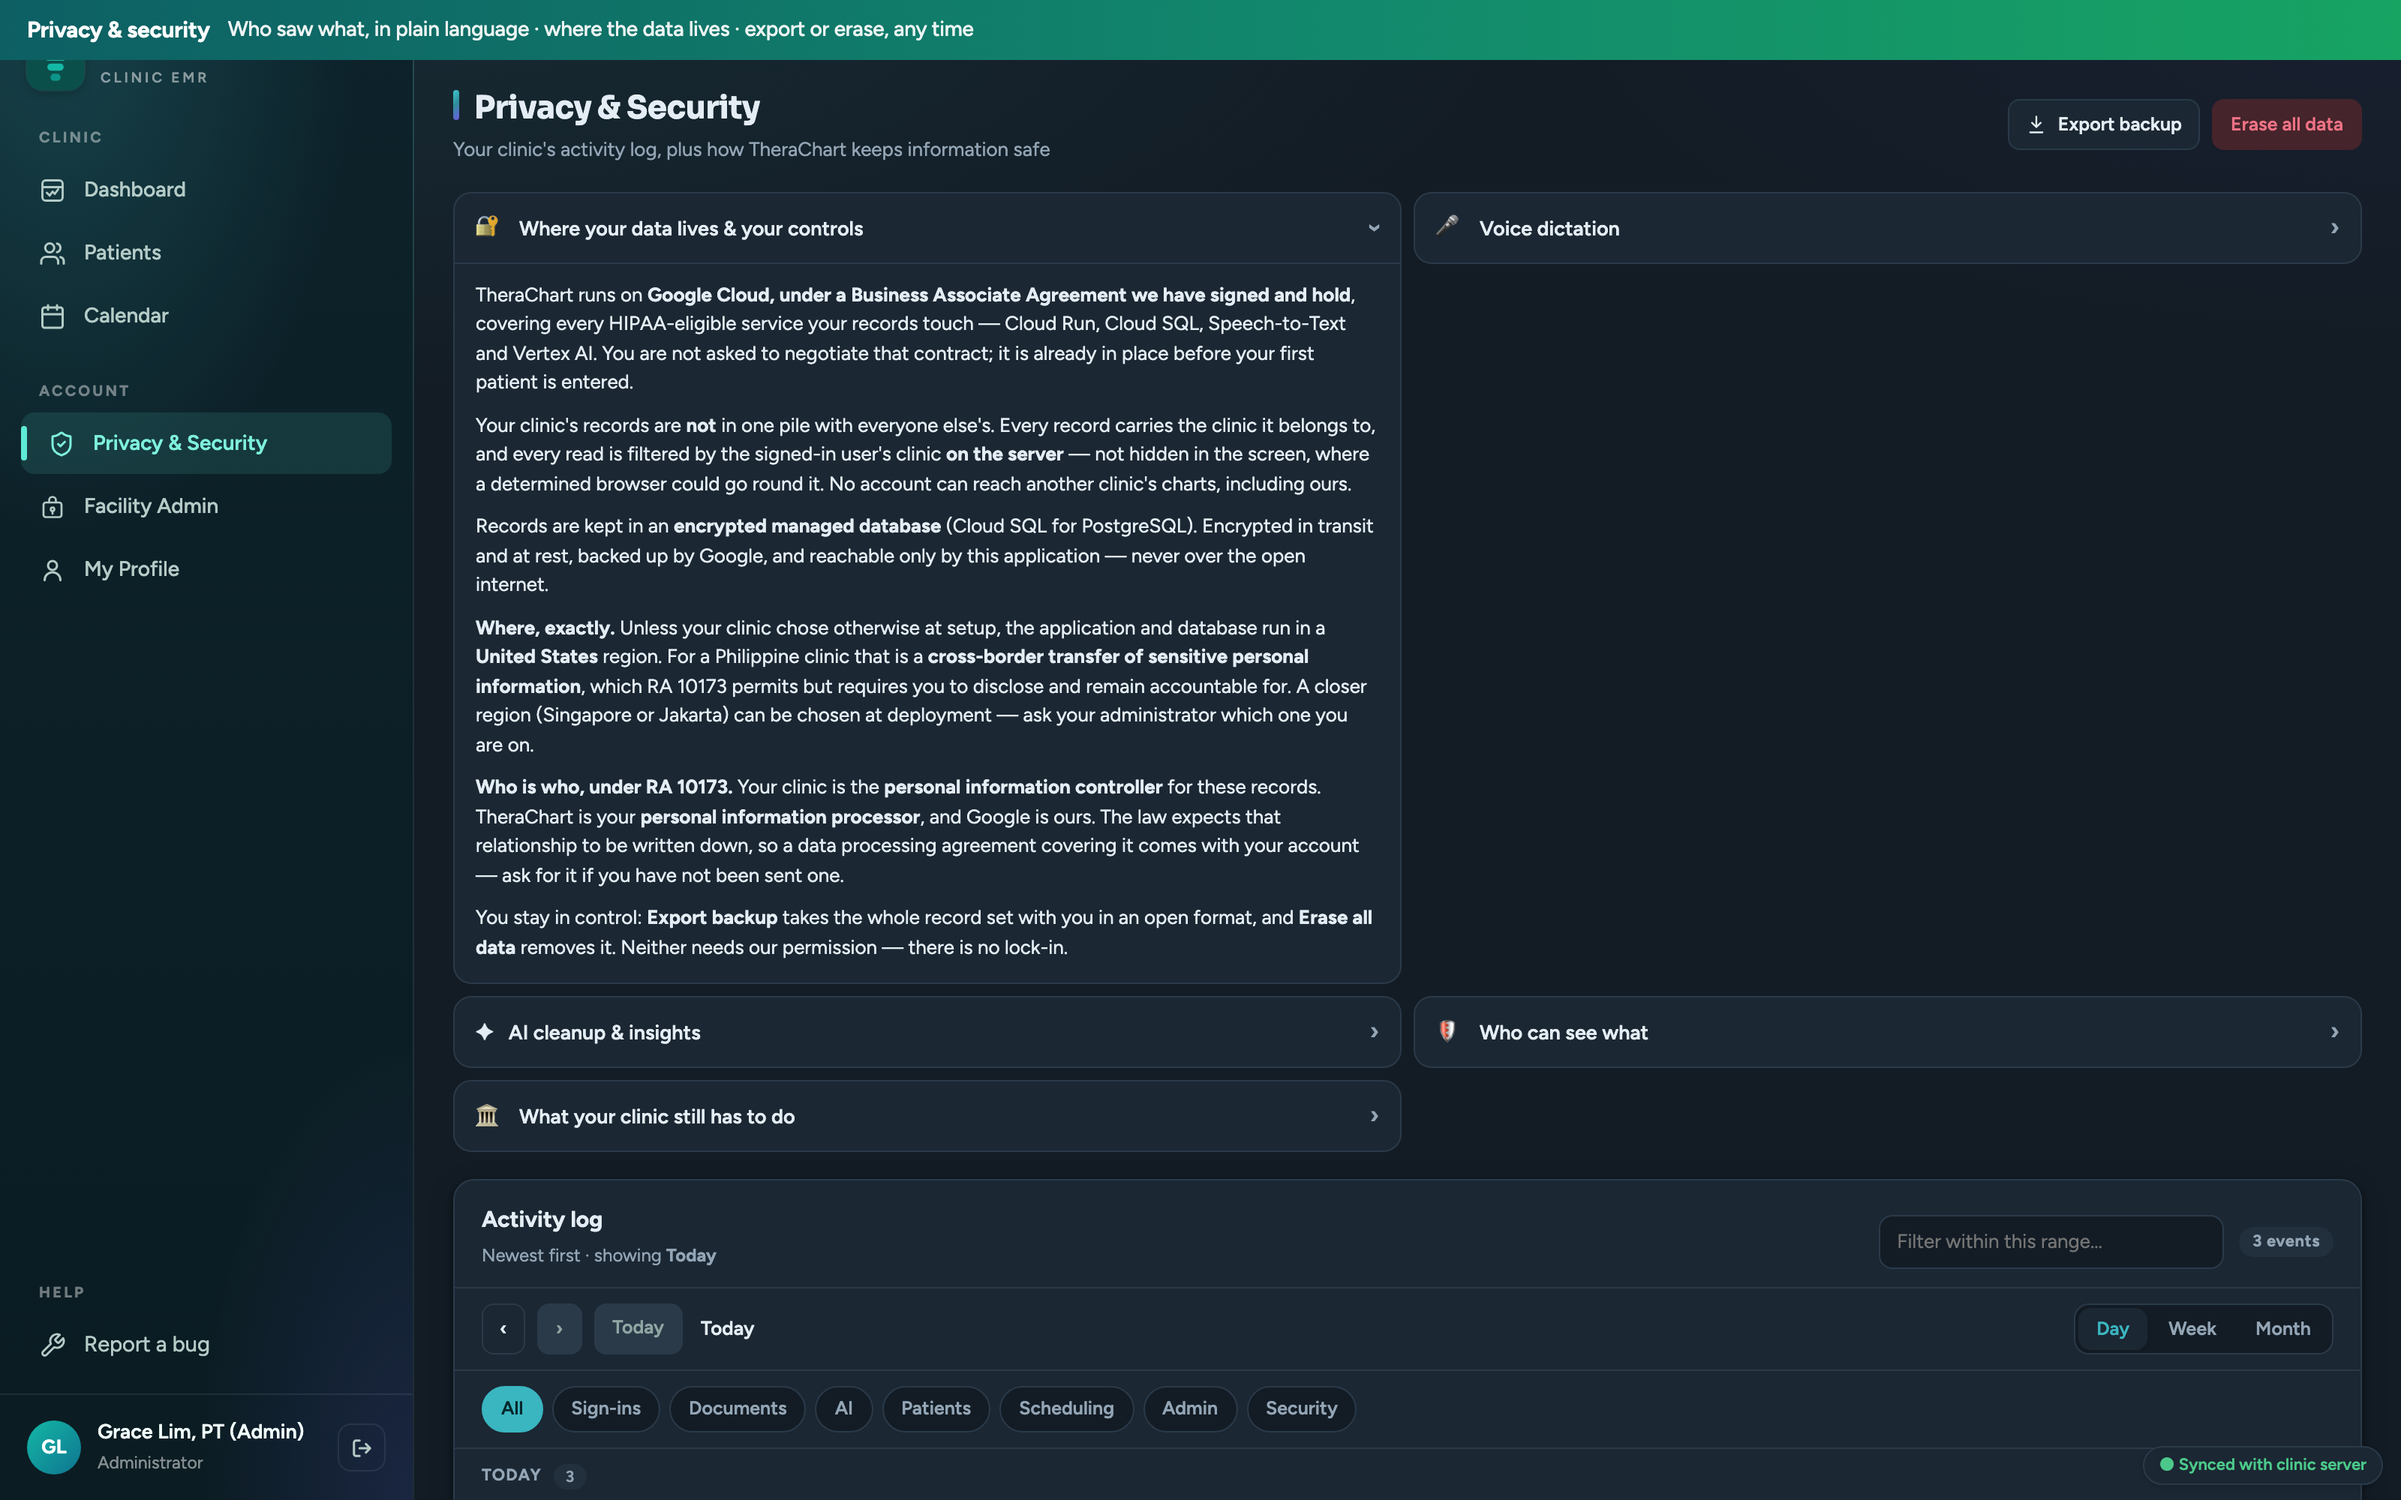
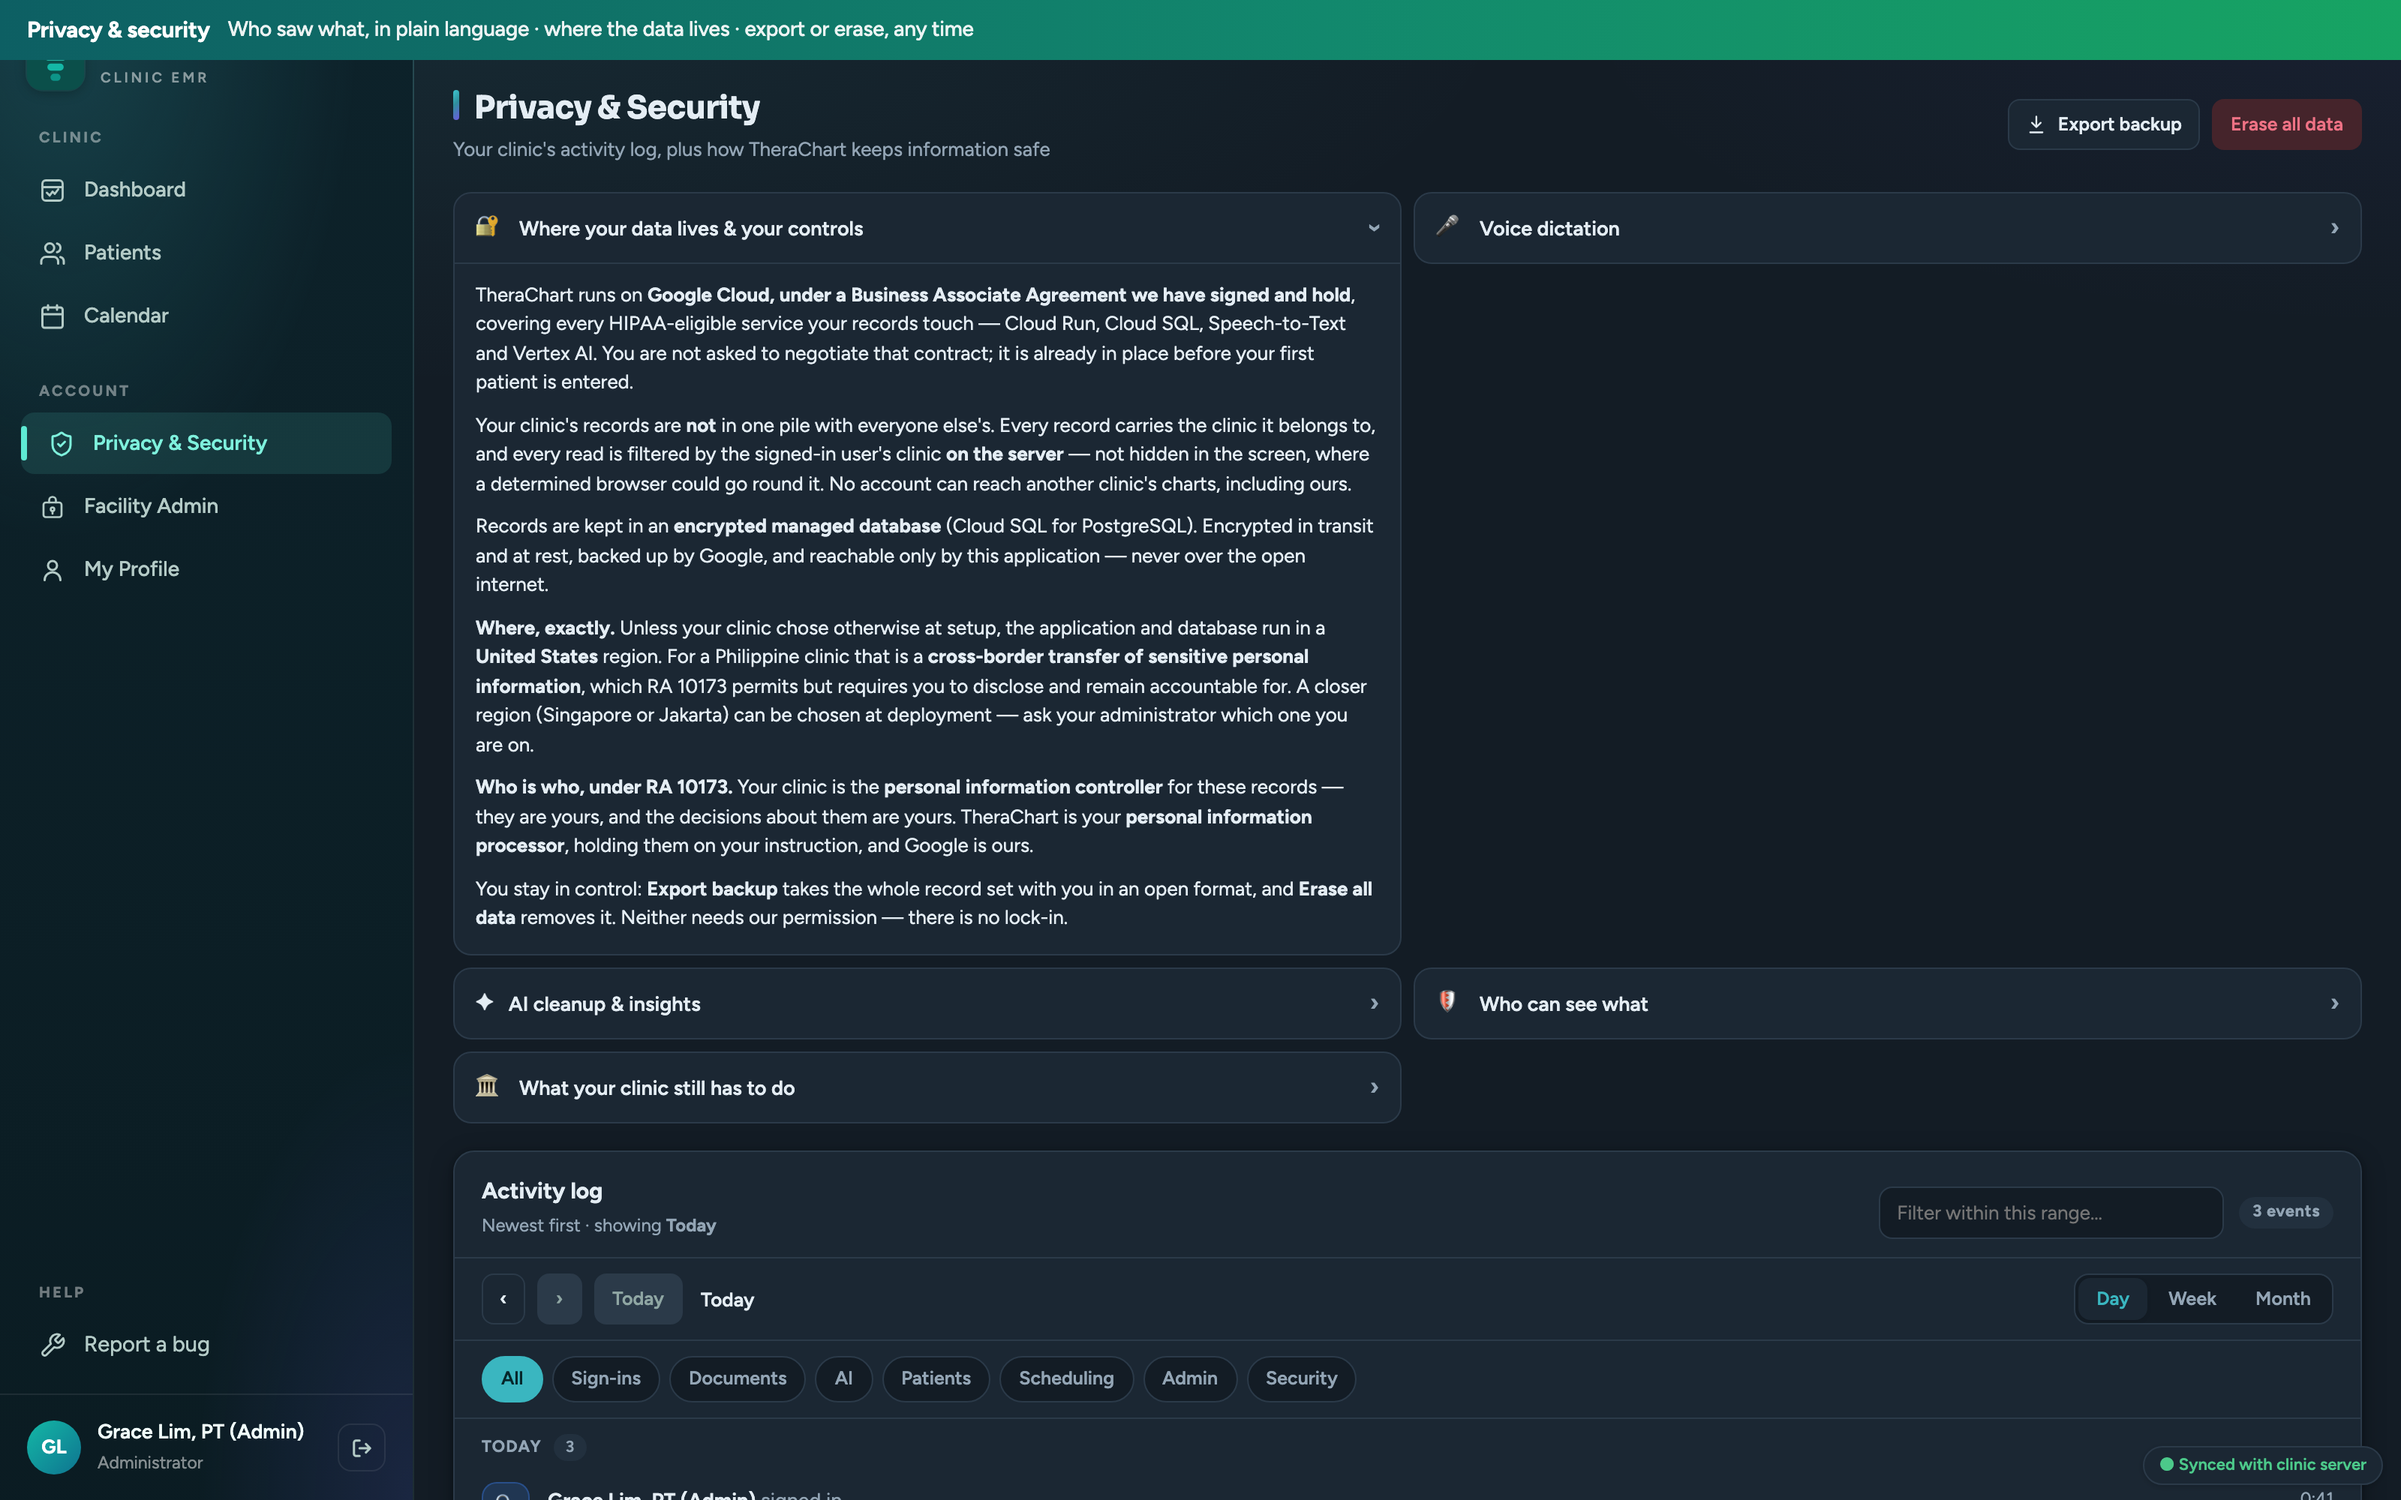
Stop promising paperwork we haven't written, and drop HIPAA down the page
Two problems with the privacy copy from 49adc6e, one of them mine and worse
than the thing it replaced.

I wrote that a data processing agreement "comes with your account" and that a
BAA between the clinic and TheraChart could be had for the asking. Neither
document exists. Replacing an inaccurate claim about hosting with a promise of
paperwork nobody has drafted is not an improvement — a clinic that asked for
either on day one would have been told to wait. Both sentences are gone. What
is left is the relationship itself, which is true today and needs no document
to be true: the clinic is the personal information controller, we are its
processor, Google is ours, and the servers are in a US region unless asked
otherwise.

The second is that HIPAA was being given a prominence it has not earned here.
It is United States law. A Philippine clinic treating Philippine patients and
billing PhilHealth or an HMO is not a covered entity, so no BAA between that
clinic and TheraChart is required at all — and who we bill for the subscription
has nothing to do with it, since HIPAA follows the patient data and the
clinic's status rather than our invoice. Framing it as a thing they need to
sort out invented a compliance obstacle in front of a clinic that does not have
one. It now says plainly that HIPAA does not bind them, and invites the
conversation only from a clinic whose care is billed to a US health plan.
[…]

diff --git a/app.js b/app.js
@@ -856,11 +856,12 @@
         Note text sent to Gemini for cleanup or insights is covered by Google's Vertex AI terms, which state
         that customer prompts and responses are <b>not used to train Google's models</b> and are not sold.
         The AI only ever suggests — nothing enters a chart until a licensed clinician approves and signs it.`)}
-      ${privacyPoint("⚖", "You stay the controller, in writing", `
+      ${privacyPoint("⚖", "The records stay yours", `
         Under the <b>Data Privacy Act of 2012 (RA 10173)</b> your clinic is the personal information controller
-        for these records and we are your processor, which is a relationship the law expects to be written down.
-        You get that agreement from us on day one, alongside the disclosure you need for the cross-border
-        transfer, since the servers sit in a United States region unless your clinic asks for a closer one.`)}
+        for these records; we hold them for you and act on your instructions. The servers sit in a
+        <b>United States</b> region unless your clinic asks for a closer one, which is a cross-border transfer
+        the Act permits and expects you to be able to describe — so the app states it plainly rather than
+        burying it, and your administrator can read the exact region live.`)}
       ${privacyPoint("📤", "Leaving is a button, not a negotiation", `
         <b>Export backup</b> takes the entire record set in an open format, and <b>Erase all data</b> removes it.
         Neither needs our permission or our help. A clinic that can only leave by asking nicely was never
@@ -7340,7 +7341,7 @@ ${ths.map((t) => {
         <p>Your clinic's records are <b>not</b> in one pile with everyone else's. Every record carries the clinic it belongs to, and every read is filtered by the signed-in user's clinic <b>on the server</b> — not hidden in the screen, where a determined browser could go round it. No account can reach another clinic's charts, including ours.</p>
         <p>Records are kept in an <b>encrypted managed database</b> (Cloud SQL for PostgreSQL). Encrypted in transit and at rest, backed up by Google, and reachable only by this application — never over the open internet.</p>
         <p><b>Where, exactly.</b> Unless your clinic chose otherwise at setup, the application and database run in a <b>United States</b> region. For a Philippine clinic that is a <b>cross-border transfer of sensitive personal information</b>, which RA 10173 permits but requires you to disclose and remain accountable for. A closer region (Singapore or Jakarta) can be chosen at deployment — ask your administrator which one you are on.</p>
-        <p><b>Who is who, under RA 10173.</b> Your clinic is the <b>personal information controller</b> for these records. TheraChart is your <b>personal information processor</b>, and Google is ours. The law expects that relationship to be written down, so a data processing agreement covering it comes with your account — ask for it if you have not been sent one.</p>
+        <p><b>Who is who, under RA 10173.</b> Your clinic is the <b>personal information controller</b> for these records — they are yours, and the decisions about them are yours. TheraChart is your <b>personal information processor</b>, holding them on your instruction, and Google is ours.</p>
         <p style="margin-bottom:0">You stay in control: <b>Export backup</b> takes the whole record set with you in an open format, and <b>Erase all data</b> removes it. Neither needs our permission — there is no lock-in.</p>` },
       { emoji: "🎤", title: "Voice dictation", body: `
         <p>When you dictate, the audio streams to <b>Google Cloud Speech-to-Text</b> in ${where(sttLoc)}, which turns it into text and sends it straight back. It is a paid Google Cloud service under your own project — <b>not</b> a free consumer speech service, and not a phone's built-in dictation.</p>
@@ -7367,7 +7368,7 @@ ${ths.map((t) => {
           <li>Keep a record of processing activities, and notify the NPC and affected patients of a breach within the required period</li>
           <li>Retain records for the period required of a Philippine health facility</li>
         </ul>
-        <p style="margin-bottom:0">If your clinic also serves US patients or bills a US payer, <b>HIPAA</b> applies to you as well. The Google side of that is already covered by the BAA we hold; what it additionally needs is a <b>Business Associate Agreement between your clinic and TheraChart</b>, since we process protected health information on your behalf. Ask us for it — it is a routine document and there is no charge for it. <b>Have your own counsel or DPO confirm all of this</b>; the descriptions here are of what the software does, not legal advice.</p>` },
+        <p style="margin-bottom:0"><b>HIPAA is United States law</b> and does not bind a Philippine clinic treating Philippine patients and billing PhilHealth or an HMO — RA 10173 is the law that governs you, and it is the one this page is written against. A clinic whose care is billed to a <i>US health plan</i> is in a different position; if that is you, raise it with us. <b>Have your own counsel or DPO confirm all of this</b>; the descriptions here are of what the software does, not legal advice.</p>` },
     ];
     return `<div class="info-acc">${items.map((it) => `
       <details class="info-acc-item">

diff --git a/NOTES.md b/NOTES.md
@@ -1,0 +1,88 @@
+# Open items
+
+Things known to be outstanding, with enough context to pick them up cold.
+Not a backlog of ideas — only work that is *already implied by something we
+ship*, or a decision that has been made and not yet carried out.
+
+---
+
+## Legal documents a clinic may ask for
+
+**Status:** not written. Nothing in the product currently promises them, and
+that is deliberate — see "What the app says today" below before changing any
+of this copy.
+
+Because clinics are tenants on our Google Cloud project rather than each
+running their own, TheraChart holds their patients' records. That makes us a
+**personal information processor** under RA 10173, with the clinic as the
+**personal information controller**. Two documents follow from that:
+
+### 1. Data processing agreement (RA 10173) — the one that actually matters
+
+The Data Privacy Act expects the controller/processor relationship to be
+written down. Every Philippine clinic on the platform is in this relationship
+with us, so this document applies to all of them, not to a subset.
+
+Should cover, at minimum:
+- what we process and why (clinical records, on the clinic's instruction only)
+- the sub-processor: Google Cloud, and which services
+- the **cross-border transfer** — servers are in a US region by default, which
+  RA 10173 permits but requires the clinic to disclose and remain accountable for
+- security measures, breach notification timing, and what happens on termination
+  (the clinic can already Export backup / Erase all data unaided, which is most
+  of the answer)
+
+### 2. HIPAA Business Associate Agreement — only if a clinic raises it
+
+**Almost certainly not needed.** HIPAA is US law binding US covered entities.
+A Philippine clinic treating Philippine patients and billing PhilHealth or an
+HMO is not a covered entity, so no BAA between that clinic and TheraChart is
+required. Who *we* bill for the subscription has no bearing on this — HIPAA
+follows the patient data and the clinic's status, not our invoice.
+
+It would only arise for a clinic whose care is billed to a **US health plan**.
+Have a template ready for that conversation, but do not lead with it.
+
+> Note the separate, unrelated BAA that *does* exist: **ours with Google**,
+> signed and active on the account running production, covering Cloud Run,
+> Cloud SQL, Speech-to-Text and Vertex AI. That one is a live fact and the
+> landing page and Privacy panel both state it.
+
+### What the app says today
+
+Deliberately worded so nothing promises a document that does not exist yet:
+
+- **Landing page → "The records stay yours"** — states the controller
+  relationship and the cross-border transfer. Promises no paperwork.
+- **Privacy panel → "Where your data lives"** — states controller / processor /
+  sub-processor. Promises no paperwork.
+- **Privacy panel → "What your clinic still has to do"** — says plainly that
+  HIPAA is US law and does not bind a Philippine clinic billing PhilHealth or an
+  HMO, and invites the conversation only from a clinic billed to a US plan.
+
+If either document gets written, that copy is where to mention it — and the
+screenshots covering both surfaces need recapturing:
+
+```bash
+node tools/capture-screenshots.js 00 11
+```
+
+---
+
+## Deploy
+
+Production is on `057ca2e` (revision `therachart-00055-w6n`). `main` is well
+ahead of both prod and `origin/main`, and **nothing has been pushed**.
+
+Unshipped work on `main` includes a behaviour change to the AI paths — the
+extraction schema gained a `side` field on `mmt` and `pain`, the refine prompt
+changed, and a failed AI call now shows a failure dialog instead of quietly
+presenting the offline reviewer's output as the AI's. That is worth a look
+before it reaches a clinic, rather than after.
+
+Reminders for whoever runs it:
+- `deploy-gcp.sh` ships the **working directory**, not a commit — make sure the
+  tree is clean and is what you mean to send
+- it reads the live service's settings and carries them forward, so scrub
+  `THERACHART_DEMO_LOGINS` from your shell first; production is INVITE-only
+- `./verify-prod.sh` afterwards — 19 read-only checks, non-zero exit on failure
